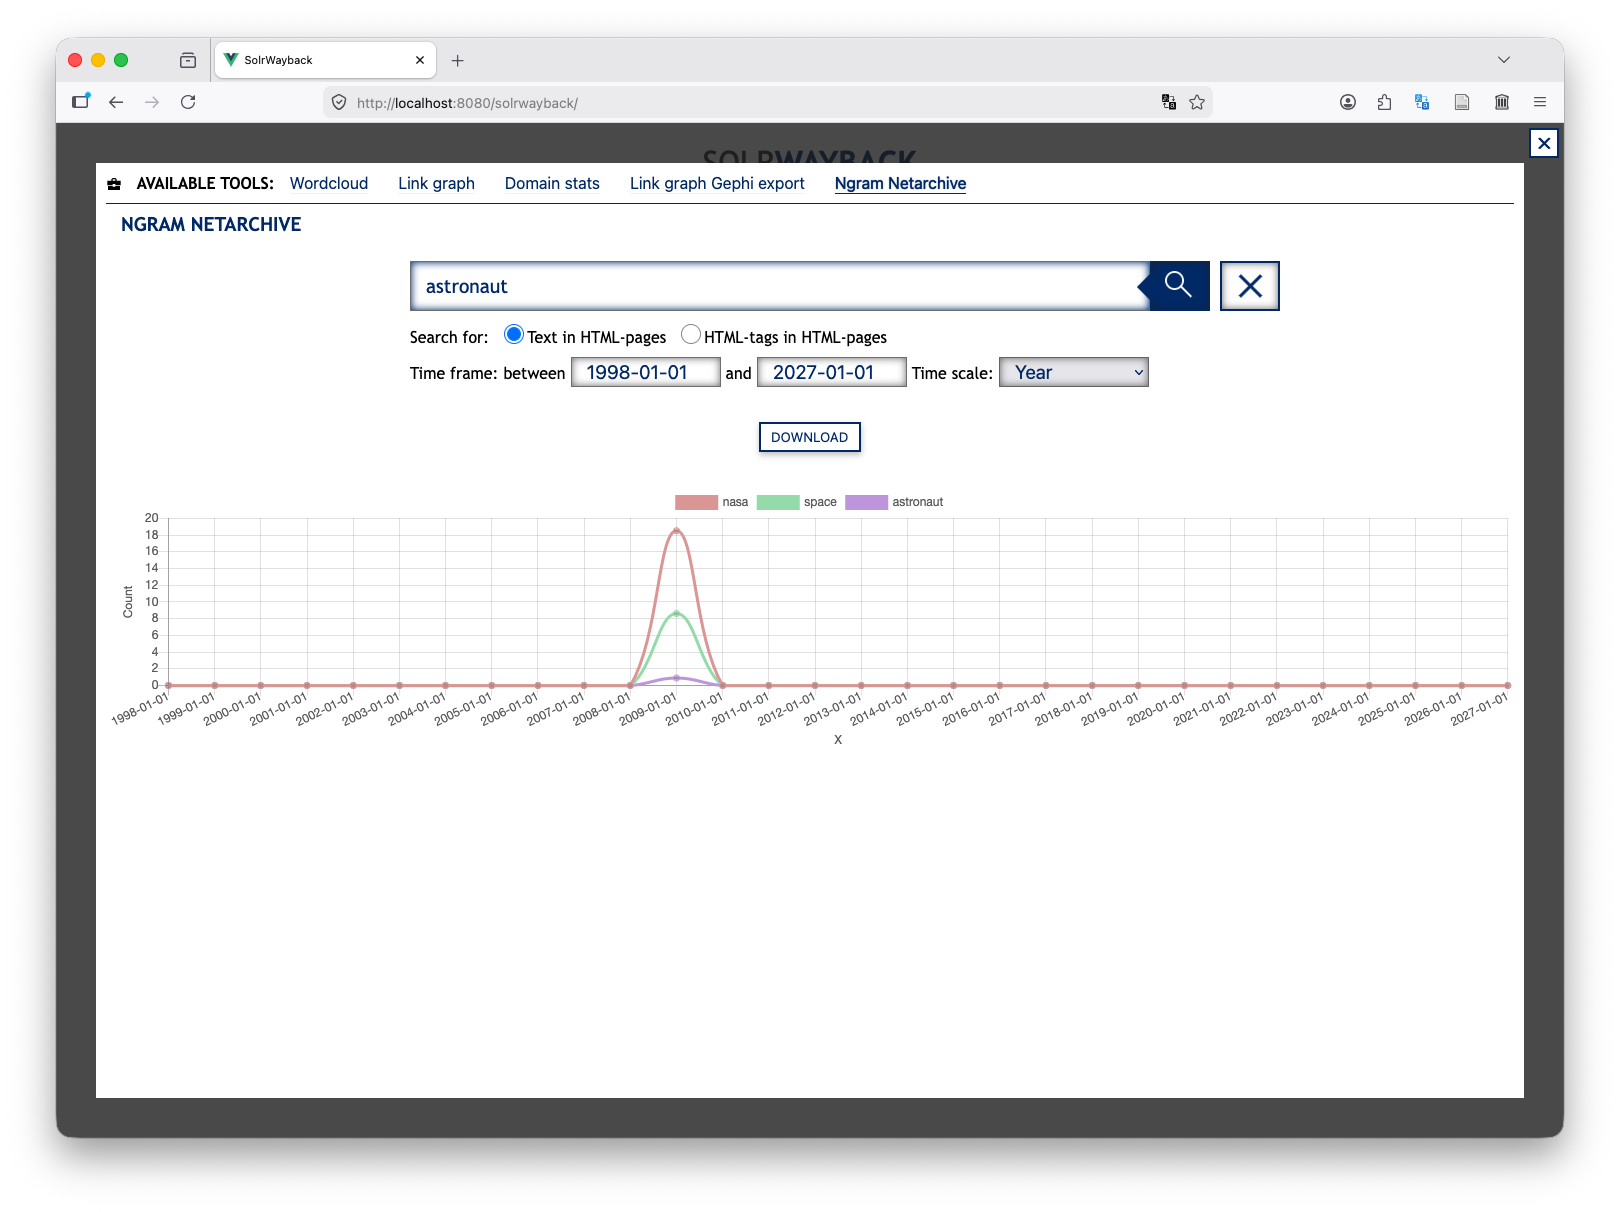
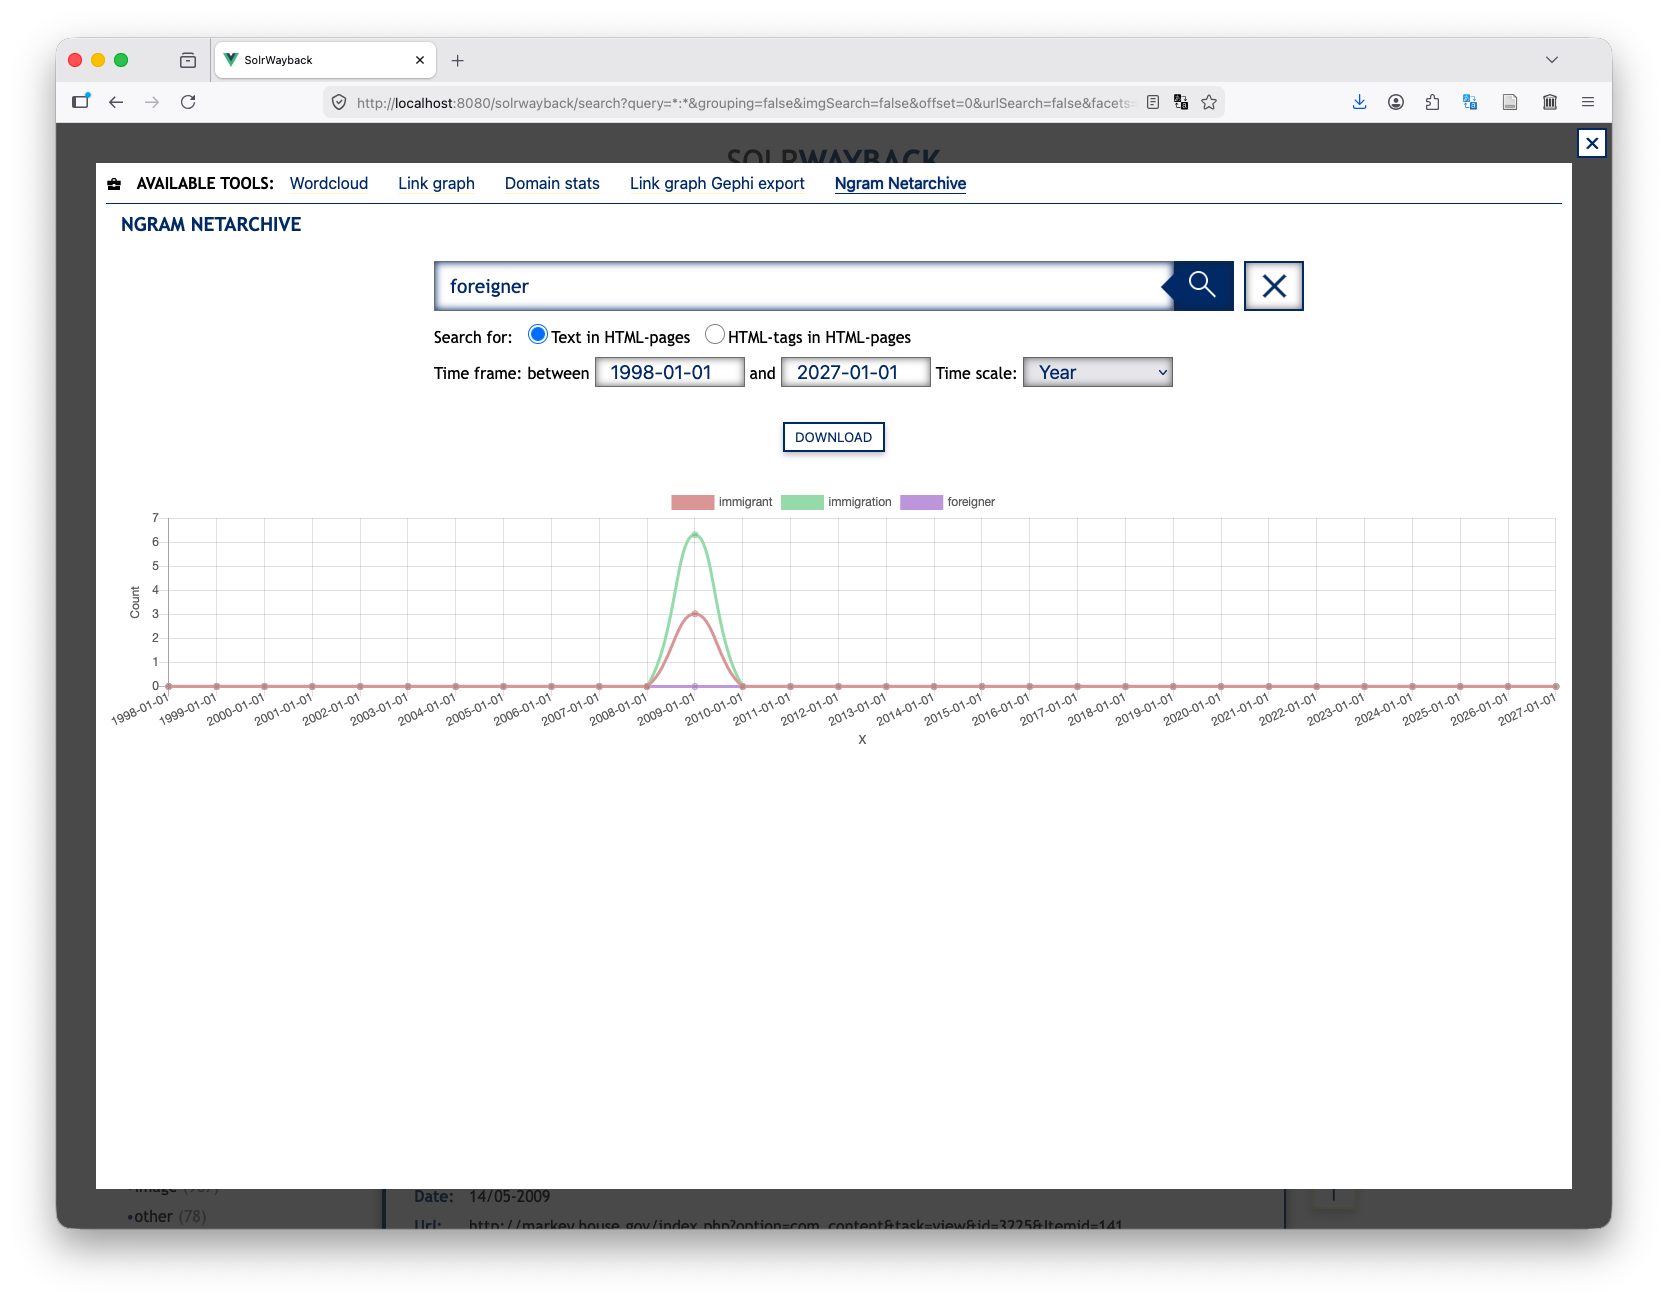
Update missing distant readings to follow RQ

diff --git a/en/drafts/originals/exploring-archived-web-solrwayback.md b/en/drafts/originals/exploring-archived-web-solrwayback.md
@@ -204,7 +204,7 @@ Collections of archived web material are often extremely big. Access to web arch
 
 {% include figure.html filename="en-or-exploring-archived-web-solrwayback-10.png" alt="The toolbox icon button highlighted below the SolrWayback search bar" caption="Figure 10: Button for opening the toolbox" %}
 
-The following section provides a brief overview of how these tools can be used to explore your collection with examples related to your initial research question about views on immigration in 2008. To make sure you can follow along, please make a query for everything: `*:*`. Now press the toolbar icon and you will be given the following screen:
+The following section provides a brief overview of how these tools can be used to explore your collection with the purpose of discovering sources that can be interpreted as part of the initial research question of this lesson. To make sure you can follow along, please make a query for everything: `*:*`. Now press the toolbar icon and you will be given the following screen:
 
 {% include figure.html filename="en-or-exploring-archived-web-solrwayback-11.png" alt="SolrWayback toolbox panel listing five tools: Wordcloud, Link Graph, Domain stats, Link graph Gephi export, and Ngram Netarchive, each with an input field" caption="Figure 11: View of the SolrWayback toolbox" %}
 
@@ -219,29 +219,29 @@ All input boxes contain an example text of kb.dk. In all steps below, this needs
 
 {% include figure.html filename="en-or-exploring-archived-web-solrwayback-12.png" alt="Word cloud visualisation showing the most frequently occurring terms across the nasa.gov domain, with larger words indicating higher frequency" caption="Figure 12: Example wordcloud of house.gov" %}
 
-The next tool, the link graph tool is central if you want to understand or investigate the linked nature of the web. Network analysis can be used for exploring how parts of the collection refer to other parts but are not as accurate as link analysis of the live web.[^12] Please press the `Link Graph`-tool in the top of the lesson and then input nasa.gov into the input field. Make sure that link direction is set to outgoing before you press generate. 
+The next tool, the link graph tool is central if you want to understand or investigate the linked nature of the web. Network analysis can be used for exploring how parts of the collection refer to other parts but are not as accurate as link analysis of the live web.[^12] Please press the `Link Graph`-tool in the top of the lesson and then input house.gov into the input field. Make sure that link direction is set to outgoing before you press generate. 
 
 {% include figure.html filename="en-or-exploring-archived-web-solrwayback-13.png" alt="Network graph showing outgoing links from nasa.gov to other domains, with nodes representing domains and edges representing hyperlinks" caption="Figure 13: Example linkgraph of nasa.gov" %}
 
-What you see here are the domains, that are linked to from webpages on nasa.gov. You can also produce a graph of ingoing links, which is often a more complex task, but because SolrWayback already has this information available through its index the graph can be constructed easily. To produce such a graph you toggle the radio button to ingoing and press generate again. However, for nasa.gov in your collection, this produces a meaningless graph with no edges. If you change the domain from nasa.gov to wikipedia.org you can get a feel of how a graph of ingoing links look. This link graph tool provides an accessible entrypoint to getting started with link analysis of archived web material. For more complex link analysis the tool Link graph Gephi export can export needed data for complex analysis with the network analysis tool Gephi. For an introduction to network analysis in general see the Programming Historian lesson by Ladd et al. 2017.[^13]
+What you see here are the domains, that are linked to from webpages on house.gov. You can also produce a graph of ingoing links, which is often a more complex task, but because SolrWayback already has this information available through its index the graph can be constructed easily. To produce such a graph you toggle the radio button to ingoing and press generate again. However, for house.gov in your collection, this produces a meaningless graph with no edges. If you change the domain from house.gov to wikipedia.org you can get a feel of how a graph of ingoing links look. This link graph tool provides an accessible entrypoint to getting started with link analysis of archived web material. For more complex link analysis the tool Link graph Gephi export can export needed data for complex analysis with the network analysis tool Gephi. For an introduction to network analysis in general see the Programming Historian lesson by Ladd et al. 2017.[^13]
 
-Next in line is the domain stats tool. This tool visualises statistics about a single domain at different levels of granularity. To get an understanding of how this tool works enter nasa.gov in the input box. The X-axis defaults to the years 1998 to 2027. This can be changed in the two timeframe boxes. The scale of the X-axis can also be customised down to daily intervals. When you press the generate button a combined line chart appears. This combined chart visualises four distinct counts: Amount of pages, ingoing links, average page size in characters, and size in kilobytes. In this combined view it is possible to remove individual line charts by clicking their respective colors at the top of the visualisation. You can also render all four charts individually by pressing the `Show Individual Charts`-button. The domain statistics can be used to investigate temporal changes in the archived material. Your subset from the total collection are all collected on the same day in 2009 and therefore there is not enough datapoints to create a telling visualisation. An example of how the graph could look with more data is shown here.
+Next in line is the domain stats tool. This tool visualises statistics about a single domain at different levels of granularity. To get an understanding of how this tool works enter house.gov in the input box. The X-axis defaults to the years 1998 to 2027. This can be changed in the two timeframe boxes. The scale of the X-axis can also be customised down to daily intervals. When you press the generate button a combined line chart appears. This combined chart visualises four distinct counts: Amount of pages, ingoing links, average page size in characters, and size in kilobytes. In this combined view it is possible to remove individual line charts by clicking their respective colors at the top of the visualisation. You can also render all four charts individually by pressing the `Show Individual Charts`-button. The domain statistics can be used to investigate temporal changes in the archived material. Your subset from the total collection are all collected on the same day in 2009 and therefore there is not enough datapoints to create a telling visualisation. An example of how the graph could look with more data from a different collection is shown here.
 
 {% include figure.html filename="en-or-exploring-archived-web-solrwayback-14.png" alt="Combined line chart from the domain stats tool showing four metrics over time: number of pages, ingoing links, average page size in characters, and size in kilobytes" caption="Figure 14: Example of visualising domain stats from a much bigger collection" %}
 
-The last tool in the toolbox is the Ngram Netarchive tool. This tool can discover and investigate how frequently a term appears in the collection over time. Multiple terms can be shown on the same graph at once by searching for them individually. For instance, staying in the space program example, you can add terms such as `nasa`, `space`, and `astronaut` to the visualisation and if you then had material from multiple years, the visualisation would represent how often the words were present in the collection. 
+The last tool in the toolbox is the Ngram Netarchive tool. This tool can discover and investigate how frequently a term appears in the collection over time. Multiple terms can be shown on the same graph at once by searching for them individually. For instance, staying in the space program example, you can add terms such as `immigrant`, `immigration`, and `foreigner` to the visualisation and if you then had material from multiple years, the visualisation would represent how often the words were present in the collection. 
 
 {% include figure.html filename="en-or-exploring-archived-web-solrwayback-15.png" alt="Ngram line chart showing the relative frequency of the search terms nasa, space, and astronaut across the collection over time" caption="Figure 15: Example of an Ngram search for the words 'nasa', 'space', and 'astronaut' across your collection" %}
 
 This type of visualisation investigates trends in usage of different words. Collections from web archives are very strictly bound to the collecting practices of holding institutions such as the Internet Archive or the Royal Danish Library. This means that spikes in these visualisations needs to be treated with care as they can just as easily be a product of excessive collecting of material as actual markers of change.
 
-The functionality of the toolbox can support you in initial distant readings of material in your collection. For further distant reading or quantitative approaches researchers often export data from SolrWayback.[^14] Data can be exported in many formats from the front page of the application.
+The functionality of the toolbox can support you in initial distant readings of material in your collection. Overview tools such as the ones introduced above can be good entrypoints for getting to understand what is in a collection and explore which queries could be applied to find sources that are relevant for your research question. For further distant reading or quantitative approaches researchers often export data from SolrWayback.[^14] Data can be exported in many formats from the front page of the application.
 
 ## Conclusion: A New World of Source Material Emerges
 
 This lesson has introduced a highly specific application for exploring archived web material. You have briefly been introduced to the storage format WARC, which stand as the foundation for web archiving systems. You've successfully installed SolrWayback on your local computer and have made a very small subset of material from the End of Term Web Archive available for discovery in the software. The material used as example in the lesson is freely accessible and a more covering subset can be acquired at the EOTWA itself.
 
-Through SolrWayback it becomes possible to perform complex searches in material from web archives, that are otherwise often only available if you know the precise URL you are looking for. This lesson has taught you how to perform complex queries for material and navigate the archived web, which is quite often a temporal mess. 
+Through SolrWayback it becomes possible to perform complex searches in material from web archives, that are otherwise often only available if you know the precise URL you are looking for. By navigating sources from the archived web in SolrWayback it becomes easier to work from a problem driven approach where research questions drive the exploration.  This lesson has taught you how to perform complex queries for material and navigate the archived web, which is quite often a temporal mess. 
 
 SolrWayback includes a toolbox of tools for initial distant reading of archived web collections. This toolbox can be used as a starting point for computational analysis of reborn digital sources. These tools are built for larger collections that span archives of material collected on different dates as most of the tools visualise changes in material over time. With SolrWayback in hand you are prepared to explore larger collections of archived web material.
 
